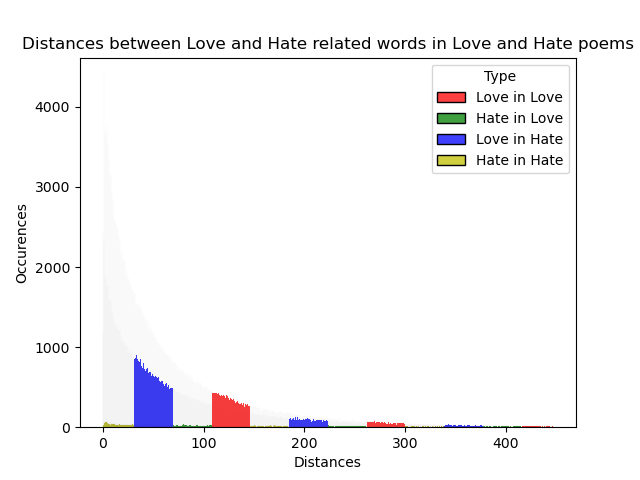
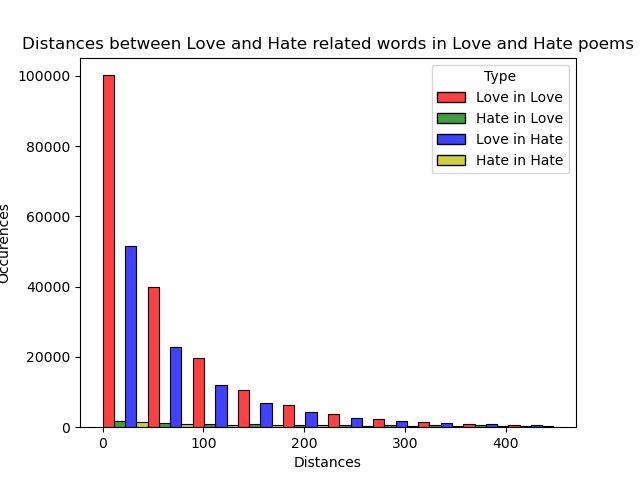
sequential_occurence.py: Proper binning

diff --git a/sequential_occurence.py b/sequential_occurence.py
@@ -54,7 +54,7 @@ if __name__ == "__main__":
     max_distance = data['Distances'].quantile(0.95)
     data_filtered = data[data['Distances'] <= max_distance]
                                            
-    sns.histplot(data=data_filtered, discrete=True, x='Distances', hue='Type', bins=10, multiple='dodge', palette=['r','g','b','y'])
+    sns.histplot(data=data_filtered, x='Distances', hue='Type', bins=10, multiple='dodge', palette=['r','g','b','y'])
     plt.xlabel("Distances")
     plt.ylabel("Occurences")
     plt.title("Distances between Love and Hate related words in Love and Hate poems")
